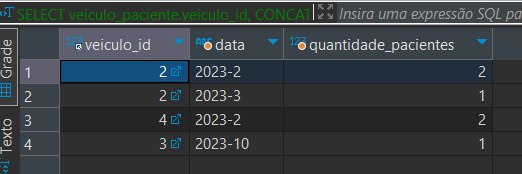
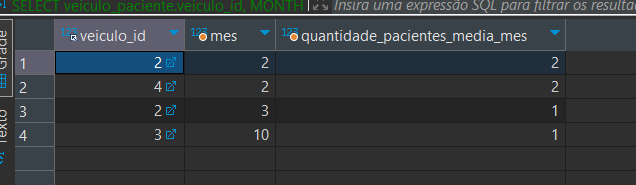
fix: mudando query

diff --git a/README.md b/README.md
@@ -91,16 +91,18 @@ CREATE TABLE `veiculo_remedio` (
 ```
 
 ### Query de consulta
+A query a seguir retorna o número médio de pacientes transportados por mês em cada veículo
 ```
 SELECT 
 	veiculo_paciente.veiculo_id, 
-	CONCAT(YEAR(veiculo_paciente.`data`), "-", MONTH(veiculo_paciente.`data`)) as `data`, 
-	COUNT(veiculo_paciente.paciente_id) as 'quantidade_pacientes'
+	MONTH(veiculo_paciente.`data`) as `mes`, 
+	COUNT(veiculo_paciente.paciente_id) / COUNT(DISTINCT YEAR(veiculo_paciente.`data`)) as 'quantidade_pacientes_media_mes'
 FROM veiculo_paciente
-GROUP BY YEAR(veiculo_paciente.`data`), MONTH(veiculo_paciente.`data`), veiculo_paciente.veiculo_id 
+GROUP BY MONTH(veiculo_paciente.`data`), veiculo_paciente.veiculo_id 
 ```
 
 Resultado:
+
 <img src="./resultado-query.png">
 
 ## Links
